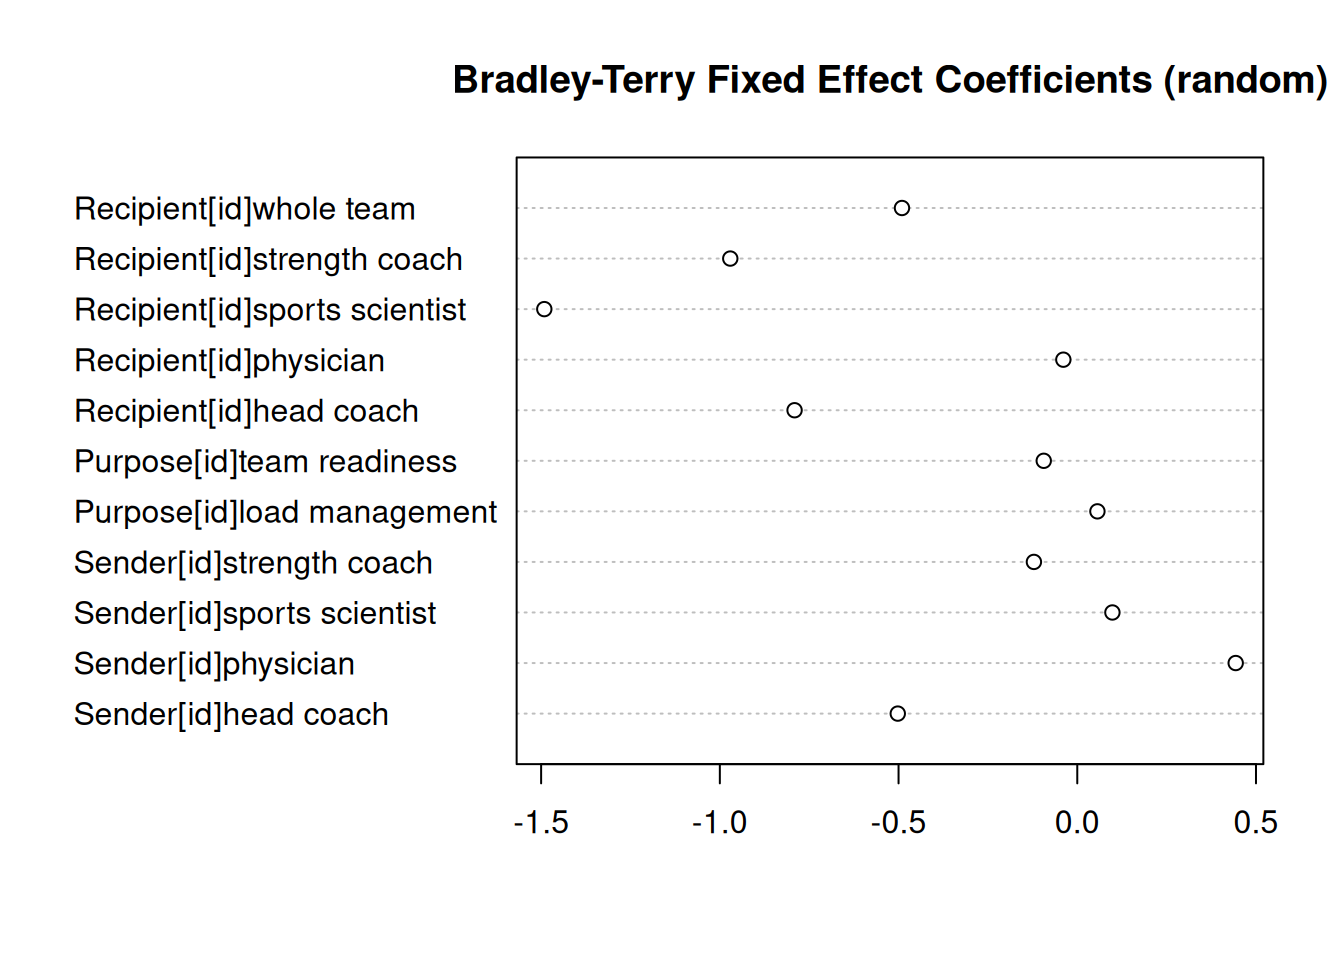
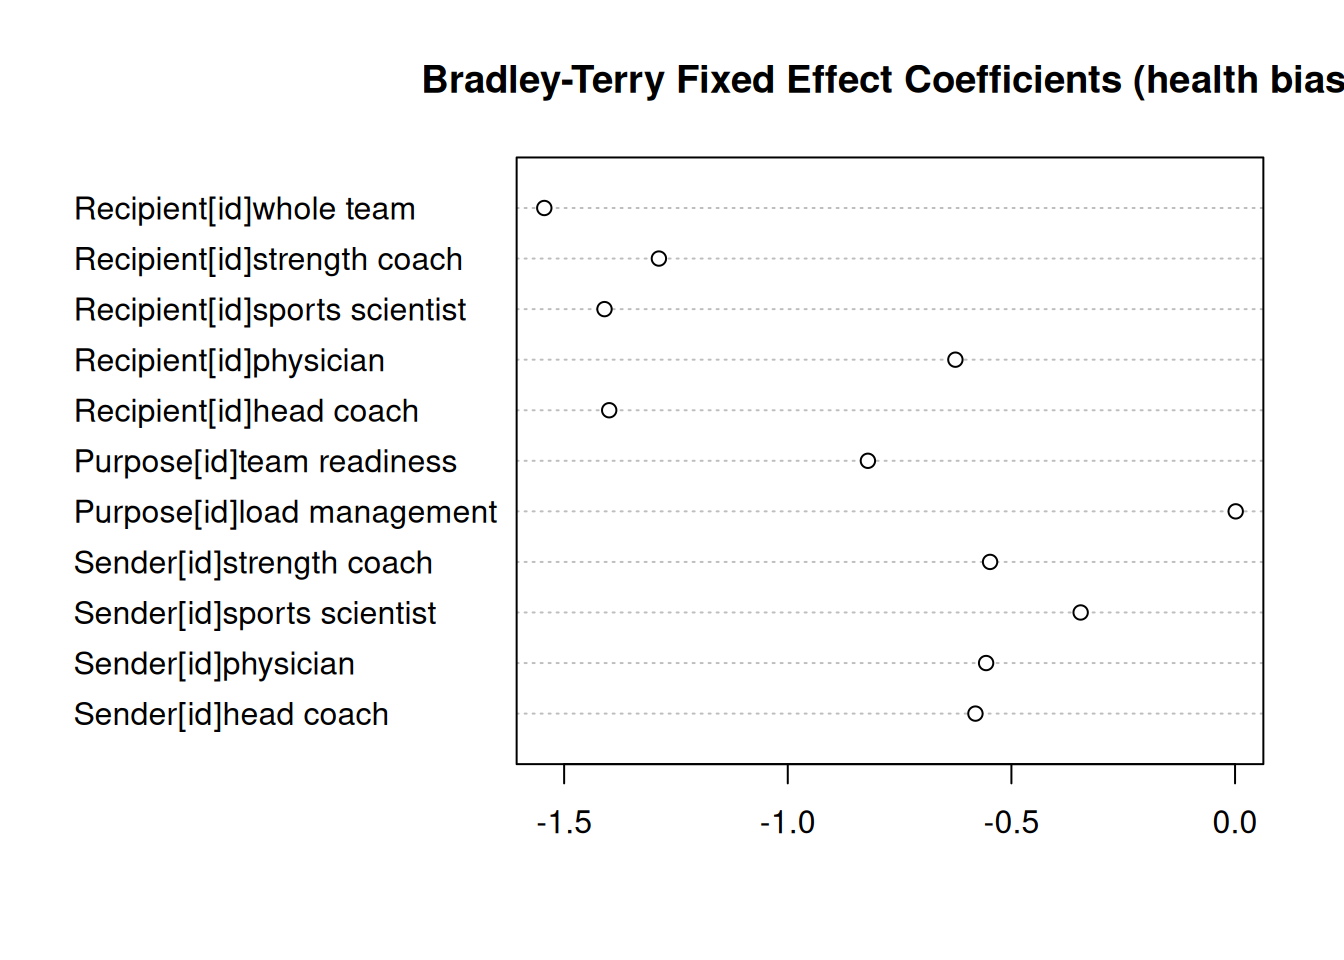
health bias sims

diff --git a/docs/posts/simulated data analysis with bradleyterry2 (health bias)/index.html b/docs/posts/simulated data analysis with bradleyterry2 (health bias)/index.html
@@ -255,7 +255,7 @@ pre > code.sourceCode > span > a:first-child::before { text-decoration: underlin
 <span id="cb3-10"><a href="#cb3-10" aria-hidden="true" tabindex="-1"></a></span>
 <span id="cb3-11"><a href="#cb3-11" aria-hidden="true" tabindex="-1"></a><span class="fu">dotchart</span>(</span>
 <span id="cb3-12"><a href="#cb3-12" aria-hidden="true" tabindex="-1"></a>  <span class="fu">coef</span>(bt_model),</span>
-<span id="cb3-13"><a href="#cb3-13" aria-hidden="true" tabindex="-1"></a>  <span class="at">main =</span> <span class="st">"Bradley-Terry Fixed Effect Coefficients (random)"</span></span>
+<span id="cb3-13"><a href="#cb3-13" aria-hidden="true" tabindex="-1"></a>  <span class="at">main =</span> <span class="st">"Bradley-Terry Fixed Effect Coefficients (health bias)"</span></span>
 <span id="cb3-14"><a href="#cb3-14" aria-hidden="true" tabindex="-1"></a>)</span></code><button title="Copy to Clipboard" class="code-copy-button"><i class="bi"></i></button></pre></div>
 <div class="cell-output-display">
 <div>

diff --git a/docs/index.html b/docs/index.html
@@ -313,7 +313,7 @@ window.Quarto = {
 </a>
 </div>
 </div>
-<div class="quarto-post image-right" data-index="5" data-listing-file-modified-sort="1790681472491" data-listing-reading-time-sort="2" data-listing-word-count-sort="337">
+<div class="quarto-post image-right" data-index="5" data-listing-file-modified-sort="1790681668631" data-listing-reading-time-sort="2" data-listing-word-count-sort="337">
 <div class="thumbnail"><a href="./posts/simulated data analysis with bradleyterry2 (health bias)/index.html" class="no-external">
 
 <p class="card-img-top"><img src="posts/simulated data analysis with bradleyterry2 (health bias)/index_files/figure-html/unnamed-chunk-3-1.png"  class="thumbnail-image card-img"/></p>
